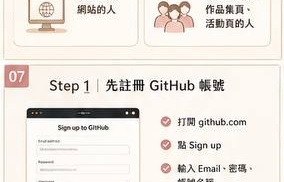
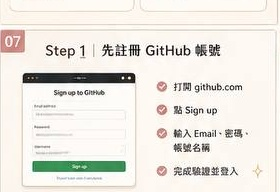
Recut 21 slide images with corrected boundaries

diff --git a/index.html b/index.html
@@ -558,191 +558,260 @@
     <div class="section-title-wrap" id="slides-start">
       <div>
         <div class="section-kicker">Visual Slides</div>
-        <h2>圖文講義視覺版</h2>
+        <h2>圖文講義對照版</h2>
       </div>
-      <p class="section-desc">以下為拆切後的 21 張圖文，可直接在網頁中逐張閱讀與檢視。</p>
+      <p class="section-desc">保留 21 張完整圖卡原比例，不放大全版、不裁切，搭配右側講義筆記，維持清晰閱讀感。</p>
     </div>
 
-    <section class="slide alt" id="quick-nav" style="min-height:auto; padding:30px 34px; margin-top:24px;">
-      <div class="meta">Quick Navigation</div>
-      <h1 class="headline" style="font-size:2rem;">快速導覽</h1>
-      <div class="grid-4">
-        <a class="btn ghost" href="#visual-slide-1">第 1 張</a>
-        <a class="btn ghost" href="#visual-slide-7">第 7 張</a>
-        <a class="btn ghost" href="#visual-slide-12">第 12 張</a>
-        <a class="btn ghost" href="#visual-slide-21">第 21 張</a>
+    <section class="slide" id="visual-slide-1" style="min-height:auto;">
+      <div class="two-col" style="align-items:start; grid-template-columns: minmax(0, 0.95fr) minmax(320px, 0.75fr);">
+        <div class="card" style="padding:18px; background:rgba(255,255,255,.72); display:flex; justify-content:center; align-items:flex-start;">
+        <img src="assets/slides/slide-01.jpg" alt="第 1 張圖文講義" style="max-width:100%; width:auto; height:auto; object-fit:contain; border-radius:18px; box-shadow:0 14px 24px rgba(67,55,53,.08);" />
+      </div><div>
+        <div class="meta">Visual Slide 01</div>
+        <h1 class="headline" style="font-size:2rem;">第 1 張重點筆記</h1>
+        <div class="quote-box"><strong>講義筆記：</strong>主題是從零開始建立公開網頁，用 GitHub Pages 做出自己的第一個公開網址。</div>
       </div>
-      <div class="hero-actions" style="margin-top:14px;">
-        <a class="btn primary" href="assets/slides/slide-01.jpg" target="_blank" rel="noreferrer">打開第 1 張原圖</a>
-        <a class="btn ghost" href="https://cherie0080.github.io/codexxgithubxwebsite/" target="_blank" rel="noreferrer">重新整理公開頁</a>
       </div>
     </section>
 
-    <section class="slide" id="visual-slide-1">
-      <div class="meta">Visual Slide 01</div>
-      <h1 class="headline">第 1 張圖文講義</h1>
-      <div class="card" style="padding:16px; background:rgba(255,255,255,.72);">
-        <img src="assets/slides/slide-01.jpg" alt="第 1 張圖文講義" style="width:100%; display:block; border-radius:22px; box-shadow:0 18px 30px rgba(67,55,53,.08);" />
+    <section class="slide" id="visual-slide-2" style="min-height:auto;">
+      <div class="two-col" style="align-items:start; grid-template-columns: minmax(0, 0.95fr) minmax(320px, 0.75fr);">
+        <div>
+        <div class="meta">Visual Slide 02</div>
+        <h1 class="headline" style="font-size:2rem;">第 2 張重點筆記</h1>
+        <div class="quote-box"><strong>講義筆記：</strong>這堂課會學到 GitHub、Repository、HTML 首頁與公開網址四個核心。</div>
+      </div><div class="card" style="padding:18px; background:rgba(255,255,255,.72); display:flex; justify-content:center; align-items:flex-start;">
+        <img src="assets/slides/slide-02.jpg" alt="第 2 張圖文講義" style="max-width:100%; width:auto; height:auto; object-fit:contain; border-radius:18px; box-shadow:0 14px 24px rgba(67,55,53,.08);" />
+      </div>
       </div>
     </section>
 
-    <section class="slide" id="visual-slide-2">
-      <div class="meta">Visual Slide 02</div>
-      <h1 class="headline">第 2 張圖文講義</h1>
-      <div class="card" style="padding:16px; background:rgba(255,255,255,.72);">
-        <img src="assets/slides/slide-02.jpg" alt="第 2 張圖文講義" style="width:100%; display:block; border-radius:22px; box-shadow:0 18px 30px rgba(67,55,53,.08);" />
+    <section class="slide" id="visual-slide-3" style="min-height:auto;">
+      <div class="two-col" style="align-items:start; grid-template-columns: minmax(0, 0.95fr) minmax(320px, 0.75fr);">
+        <div class="card" style="padding:18px; background:rgba(255,255,255,.72); display:flex; justify-content:center; align-items:flex-start;">
+        <img src="assets/slides/slide-03.jpg" alt="第 3 張圖文講義" style="max-width:100%; width:auto; height:auto; object-fit:contain; border-radius:18px; box-shadow:0 14px 24px rgba(67,55,53,.08);" />
+      </div><div>
+        <div class="meta">Visual Slide 03</div>
+        <h1 class="headline" style="font-size:2rem;">第 3 張重點筆記</h1>
+        <div class="quote-box"><strong>講義筆記：</strong>完成後會擁有 GitHub 帳號、Public repo、index.html 與公開網址。</div>
+      </div>
       </div>
     </section>
 
-    <section class="slide" id="visual-slide-3">
-      <div class="meta">Visual Slide 03</div>
-      <h1 class="headline">第 3 張圖文講義</h1>
-      <div class="card" style="padding:16px; background:rgba(255,255,255,.72);">
-        <img src="assets/slides/slide-03.jpg" alt="第 3 張圖文講義" style="width:100%; display:block; border-radius:22px; box-shadow:0 18px 30px rgba(67,55,53,.08);" />
+    <section class="slide" id="visual-slide-4" style="min-height:auto;">
+      <div class="two-col" style="align-items:start; grid-template-columns: minmax(0, 0.95fr) minmax(320px, 0.75fr);">
+        <div>
+        <div class="meta">Visual Slide 04</div>
+        <h1 class="headline" style="font-size:2rem;">第 4 張重點筆記</h1>
+        <div class="quote-box"><strong>講義筆記：</strong>適合完全沒碰過 GitHub、不會寫程式但想做公開網站的人。</div>
+      </div><div class="card" style="padding:18px; background:rgba(255,255,255,.72); display:flex; justify-content:center; align-items:flex-start;">
+        <img src="assets/slides/slide-04.jpg" alt="第 4 張圖文講義" style="max-width:100%; width:auto; height:auto; object-fit:contain; border-radius:18px; box-shadow:0 14px 24px rgba(67,55,53,.08);" />
+      </div>
       </div>
     </section>
 
-    <section class="slide" id="visual-slide-4">
-      <div class="meta">Visual Slide 04</div>
-      <h1 class="headline">第 4 張圖文講義</h1>
-      <div class="card" style="padding:16px; background:rgba(255,255,255,.72);">
-        <img src="assets/slides/slide-04.jpg" alt="第 4 張圖文講義" style="width:100%; display:block; border-radius:22px; box-shadow:0 18px 30px rgba(67,55,53,.08);" />
+    <section class="slide" id="visual-slide-5" style="min-height:auto;">
+      <div class="two-col" style="align-items:start; grid-template-columns: minmax(0, 0.95fr) minmax(320px, 0.75fr);">
+        <div class="card" style="padding:18px; background:rgba(255,255,255,.72); display:flex; justify-content:center; align-items:flex-start;">
+        <img src="assets/slides/slide-05.jpg" alt="第 5 張圖文講義" style="max-width:100%; width:auto; height:auto; object-fit:contain; border-radius:18px; box-shadow:0 14px 24px rgba(67,55,53,.08);" />
+      </div><div>
+        <div class="meta">Visual Slide 05</div>
+        <h1 class="headline" style="font-size:2rem;">第 5 張重點筆記</h1>
+        <div class="quote-box"><strong>講義筆記：</strong>先認識 GitHub、Repository、GitHub Pages 三個核心概念。</div>
+      </div>
       </div>
     </section>
 
-    <section class="slide" id="visual-slide-5">
-      <div class="meta">Visual Slide 05</div>
-      <h1 class="headline">第 5 張圖文講義</h1>
-      <div class="card" style="padding:16px; background:rgba(255,255,255,.72);">
-        <img src="assets/slides/slide-05.jpg" alt="第 5 張圖文講義" style="width:100%; display:block; border-radius:22px; box-shadow:0 18px 30px rgba(67,55,53,.08);" />
+    <section class="slide" id="visual-slide-6" style="min-height:auto;">
+      <div class="two-col" style="align-items:start; grid-template-columns: minmax(0, 0.95fr) minmax(320px, 0.75fr);">
+        <div>
+        <div class="meta">Visual Slide 06</div>
+        <h1 class="headline" style="font-size:2rem;">第 6 張重點筆記</h1>
+        <div class="quote-box"><strong>講義筆記：</strong>整體流程只有五步，依序完成就能上線。</div>
+      </div><div class="card" style="padding:18px; background:rgba(255,255,255,.72); display:flex; justify-content:center; align-items:flex-start;">
+        <img src="assets/slides/slide-06.jpg" alt="第 6 張圖文講義" style="max-width:100%; width:auto; height:auto; object-fit:contain; border-radius:18px; box-shadow:0 14px 24px rgba(67,55,53,.08);" />
+      </div>
       </div>
     </section>
 
-    <section class="slide" id="visual-slide-6">
-      <div class="meta">Visual Slide 06</div>
-      <h1 class="headline">第 6 張圖文講義</h1>
-      <div class="card" style="padding:16px; background:rgba(255,255,255,.72);">
-        <img src="assets/slides/slide-06.jpg" alt="第 6 張圖文講義" style="width:100%; display:block; border-radius:22px; box-shadow:0 18px 30px rgba(67,55,53,.08);" />
+    <section class="slide" id="visual-slide-7" style="min-height:auto;">
+      <div class="two-col" style="align-items:start; grid-template-columns: minmax(0, 0.95fr) minmax(320px, 0.75fr);">
+        <div class="card" style="padding:18px; background:rgba(255,255,255,.72); display:flex; justify-content:center; align-items:flex-start;">
+        <img src="assets/slides/slide-07.jpg" alt="第 7 張圖文講義" style="max-width:100%; width:auto; height:auto; object-fit:contain; border-radius:18px; box-shadow:0 14px 24px rgba(67,55,53,.08);" />
+      </div><div>
+        <div class="meta">Visual Slide 07</div>
+        <h1 class="headline" style="font-size:2rem;">第 7 張重點筆記</h1>
+        <div class="quote-box"><strong>講義筆記：</strong>Step 1 是先註冊 GitHub 帳號，建立網站上線的基礎身份。</div>
+      </div>
       </div>
     </section>
 
-    <section class="slide" id="visual-slide-7">
-      <div class="meta">Visual Slide 07</div>
-      <h1 class="headline">第 7 張圖文講義</h1>
-      <div class="card" style="padding:16px; background:rgba(255,255,255,.72);">
-        <img src="assets/slides/slide-07.jpg" alt="第 7 張圖文講義" style="width:100%; display:block; border-radius:22px; box-shadow:0 18px 30px rgba(67,55,53,.08);" />
+    <section class="slide" id="visual-slide-8" style="min-height:auto;">
+      <div class="two-col" style="align-items:start; grid-template-columns: minmax(0, 0.95fr) minmax(320px, 0.75fr);">
+        <div>
+        <div class="meta">Visual Slide 08</div>
+        <h1 class="headline" style="font-size:2rem;">第 8 張重點筆記</h1>
+        <div class="quote-box"><strong>講義筆記：</strong>Step 2 建立一個公開的 Repository，作為網站專案資料夾。</div>
+      </div><div class="card" style="padding:18px; background:rgba(255,255,255,.72); display:flex; justify-content:center; align-items:flex-start;">
+        <img src="assets/slides/slide-08.jpg" alt="第 8 張圖文講義" style="max-width:100%; width:auto; height:auto; object-fit:contain; border-radius:18px; box-shadow:0 14px 24px rgba(67,55,53,.08);" />
+      </div>
       </div>
     </section>
 
-    <section class="slide" id="visual-slide-8">
-      <div class="meta">Visual Slide 08</div>
-      <h1 class="headline">第 8 張圖文講義</h1>
-      <div class="card" style="padding:16px; background:rgba(255,255,255,.72);">
-        <img src="assets/slides/slide-08.jpg" alt="第 8 張圖文講義" style="width:100%; display:block; border-radius:22px; box-shadow:0 18px 30px rgba(67,55,53,.08);" />
+    <section class="slide" id="visual-slide-9" style="min-height:auto;">
+      <div class="two-col" style="align-items:start; grid-template-columns: minmax(0, 0.95fr) minmax(320px, 0.75fr);">
+        <div class="card" style="padding:18px; background:rgba(255,255,255,.72); display:flex; justify-content:center; align-items:flex-start;">
+        <img src="assets/slides/slide-09.jpg" alt="第 9 張圖文講義" style="max-width:100%; width:auto; height:auto; object-fit:contain; border-radius:18px; box-shadow:0 14px 24px rgba(67,55,53,.08);" />
+      </div><div>
+        <div class="meta">Visual Slide 09</div>
+        <h1 class="headline" style="font-size:2rem;">第 9 張重點筆記</h1>
+        <div class="quote-box"><strong>講義筆記：</strong>Step 3 建立 index.html，這是網站首頁檔案。</div>
+      </div>
       </div>
     </section>
 
-    <section class="slide" id="visual-slide-9">
-      <div class="meta">Visual Slide 09</div>
-      <h1 class="headline">第 9 張圖文講義</h1>
-      <div class="card" style="padding:16px; background:rgba(255,255,255,.72);">
-        <img src="assets/slides/slide-09.jpg" alt="第 9 張圖文講義" style="width:100%; display:block; border-radius:22px; box-shadow:0 18px 30px rgba(67,55,53,.08);" />
+    <section class="slide" id="visual-slide-10" style="min-height:auto;">
+      <div class="two-col" style="align-items:start; grid-template-columns: minmax(0, 0.95fr) minmax(320px, 0.75fr);">
+        <div>
+        <div class="meta">Visual Slide 10</div>
+        <h1 class="headline" style="font-size:2rem;">第 10 張重點筆記</h1>
+        <div class="quote-box"><strong>講義筆記：</strong>這一頁示範最基本的 HTML 首頁結構。</div>
+      </div><div class="card" style="padding:18px; background:rgba(255,255,255,.72); display:flex; justify-content:center; align-items:flex-start;">
+        <img src="assets/slides/slide-10.jpg" alt="第 10 張圖文講義" style="max-width:100%; width:auto; height:auto; object-fit:contain; border-radius:18px; box-shadow:0 14px 24px rgba(67,55,53,.08);" />
+      </div>
       </div>
     </section>
 
-    <section class="slide" id="visual-slide-10">
-      <div class="meta">Visual Slide 10</div>
-      <h1 class="headline">第 10 張圖文講義</h1>
-      <div class="card" style="padding:16px; background:rgba(255,255,255,.72);">
-        <img src="assets/slides/slide-10.jpg" alt="第 10 張圖文講義" style="width:100%; display:block; border-radius:22px; box-shadow:0 18px 30px rgba(67,55,53,.08);" />
+    <section class="slide" id="visual-slide-11" style="min-height:auto;">
+      <div class="two-col" style="align-items:start; grid-template-columns: minmax(0, 0.95fr) minmax(320px, 0.75fr);">
+        <div class="card" style="padding:18px; background:rgba(255,255,255,.72); display:flex; justify-content:center; align-items:flex-start;">
+        <img src="assets/slides/slide-11.jpg" alt="第 11 張圖文講義" style="max-width:100%; width:auto; height:auto; object-fit:contain; border-radius:18px; box-shadow:0 14px 24px rgba(67,55,53,.08);" />
+      </div><div>
+        <div class="meta">Visual Slide 11</div>
+        <h1 class="headline" style="font-size:2rem;">第 11 張重點筆記</h1>
+        <div class="quote-box"><strong>講義筆記：</strong>Step 4 把首頁上傳到 GitHub，完成檔案進站。</div>
+      </div>
       </div>
     </section>
 
-    <section class="slide" id="visual-slide-11">
-      <div class="meta">Visual Slide 11</div>
-      <h1 class="headline">第 11 張圖文講義</h1>
-      <div class="card" style="padding:16px; background:rgba(255,255,255,.72);">
-        <img src="assets/slides/slide-11.jpg" alt="第 11 張圖文講義" style="width:100%; display:block; border-radius:22px; box-shadow:0 18px 30px rgba(67,55,53,.08);" />
+    <section class="slide" id="visual-slide-12" style="min-height:auto;">
+      <div class="two-col" style="align-items:start; grid-template-columns: minmax(0, 0.95fr) minmax(320px, 0.75fr);">
+        <div>
+        <div class="meta">Visual Slide 12</div>
+        <h1 class="headline" style="font-size:2rem;">第 12 張重點筆記</h1>
+        <div class="quote-box"><strong>講義筆記：</strong>Step 5 開啟 GitHub Pages，把 repo 變成公開網站。</div>
+      </div><div class="card" style="padding:18px; background:rgba(255,255,255,.72); display:flex; justify-content:center; align-items:flex-start;">
+        <img src="assets/slides/slide-12.jpg" alt="第 12 張圖文講義" style="max-width:100%; width:auto; height:auto; object-fit:contain; border-radius:18px; box-shadow:0 14px 24px rgba(67,55,53,.08);" />
+      </div>
       </div>
     </section>
 
-    <section class="slide" id="visual-slide-12">
-      <div class="meta">Visual Slide 12</div>
-      <h1 class="headline">第 12 張圖文講義</h1>
-      <div class="card" style="padding:16px; background:rgba(255,255,255,.72);">
-        <img src="assets/slides/slide-12.jpg" alt="第 12 張圖文講義" style="width:100%; display:block; border-radius:22px; box-shadow:0 18px 30px rgba(67,55,53,.08);" />
+    <section class="slide" id="visual-slide-13" style="min-height:auto;">
+      <div class="two-col" style="align-items:start; grid-template-columns: minmax(0, 0.95fr) minmax(320px, 0.75fr);">
+        <div class="card" style="padding:18px; background:rgba(255,255,255,.72); display:flex; justify-content:center; align-items:flex-start;">
+        <img src="assets/slides/slide-13.jpg" alt="第 13 張圖文講義" style="max-width:100%; width:auto; height:auto; object-fit:contain; border-radius:18px; box-shadow:0 14px 24px rgba(67,55,53,.08);" />
+      </div><div>
+        <div class="meta">Visual Slide 13</div>
+        <h1 class="headline" style="font-size:2rem;">第 13 張重點筆記</h1>
+        <div class="quote-box"><strong>講義筆記：</strong>公開網址格式通常是 帳號.github.io/repo名稱。</div>
+      </div>
       </div>
     </section>
 
-    <section class="slide" id="visual-slide-13">
-      <div class="meta">Visual Slide 13</div>
-      <h1 class="headline">第 13 張圖文講義</h1>
-      <div class="card" style="padding:16px; background:rgba(255,255,255,.72);">
-        <img src="assets/slides/slide-13.jpg" alt="第 13 張圖文講義" style="width:100%; display:block; border-radius:22px; box-shadow:0 18px 30px rgba(67,55,53,.08);" />
+    <section class="slide" id="visual-slide-14" style="min-height:auto;">
+      <div class="two-col" style="align-items:start; grid-template-columns: minmax(0, 0.95fr) minmax(320px, 0.75fr);">
+        <div>
+        <div class="meta">Visual Slide 14</div>
+        <h1 class="headline" style="font-size:2rem;">第 14 張重點筆記</h1>
+        <div class="quote-box"><strong>講義筆記：</strong>如果成功，就會看到自己的首頁、公開網址與正式上線頁面。</div>
+      </div><div class="card" style="padding:18px; background:rgba(255,255,255,.72); display:flex; justify-content:center; align-items:flex-start;">
+        <img src="assets/slides/slide-14.jpg" alt="第 14 張圖文講義" style="max-width:100%; width:auto; height:auto; object-fit:contain; border-radius:18px; box-shadow:0 14px 24px rgba(67,55,53,.08);" />
+      </div>
       </div>
     </section>
 
-    <section class="slide" id="visual-slide-14">
-      <div class="meta">Visual Slide 14</div>
-      <h1 class="headline">第 14 張圖文講義</h1>
-      <div class="card" style="padding:16px; background:rgba(255,255,255,.72);">
-        <img src="assets/slides/slide-14.jpg" alt="第 14 張圖文講義" style="width:100%; display:block; border-radius:22px; box-shadow:0 18px 30px rgba(67,55,53,.08);" />
+    <section class="slide" id="visual-slide-15" style="min-height:auto;">
+      <div class="two-col" style="align-items:start; grid-template-columns: minmax(0, 0.95fr) minmax(320px, 0.75fr);">
+        <div class="card" style="padding:18px; background:rgba(255,255,255,.72); display:flex; justify-content:center; align-items:flex-start;">
+        <img src="assets/slides/slide-15.jpg" alt="第 15 張圖文講義" style="max-width:100%; width:auto; height:auto; object-fit:contain; border-radius:18px; box-shadow:0 14px 24px rgba(67,55,53,.08);" />
+      </div><div>
+        <div class="meta">Visual Slide 15</div>
+        <h1 class="headline" style="font-size:2rem;">第 15 張重點筆記</h1>
+        <div class="quote-box"><strong>講義筆記：</strong>這頁整理常見錯誤與排查方式。</div>
+      </div>
       </div>
     </section>
 
-    <section class="slide" id="visual-slide-15">
-      <div class="meta">Visual Slide 15</div>
-      <h1 class="headline">第 15 張圖文講義</h1>
-      <div class="card" style="padding:16px; background:rgba(255,255,255,.72);">
-        <img src="assets/slides/slide-15.jpg" alt="第 15 張圖文講義" style="width:100%; display:block; border-radius:22px; box-shadow:0 18px 30px rgba(67,55,53,.08);" />
+    <section class="slide" id="visual-slide-16" style="min-height:auto;">
+      <div class="two-col" style="align-items:start; grid-template-columns: minmax(0, 0.95fr) minmax(320px, 0.75fr);">
+        <div>
+        <div class="meta">Visual Slide 16</div>
+        <h1 class="headline" style="font-size:2rem;">第 16 張重點筆記</h1>
+        <div class="quote-box"><strong>講義筆記：</strong>網站建立後，只要改 index.html 再重新發布即可更新。</div>
+      </div><div class="card" style="padding:18px; background:rgba(255,255,255,.72); display:flex; justify-content:center; align-items:flex-start;">
+        <img src="assets/slides/slide-16.jpg" alt="第 16 張圖文講義" style="max-width:100%; width:auto; height:auto; object-fit:contain; border-radius:18px; box-shadow:0 14px 24px rgba(67,55,53,.08);" />
+      </div>
       </div>
     </section>
 
-    <section class="slide" id="visual-slide-16">
-      <div class="meta">Visual Slide 16</div>
-      <h1 class="headline">第 16 張圖文講義</h1>
-      <div class="card" style="padding:16px; background:rgba(255,255,255,.72);">
-        <img src="assets/slides/slide-16.jpg" alt="第 16 張圖文講義" style="width:100%; display:block; border-radius:22px; box-shadow:0 18px 30px rgba(67,55,53,.08);" />
+    <section class="slide" id="visual-slide-17" style="min-height:auto;">
+      <div class="two-col" style="align-items:start; grid-template-columns: minmax(0, 0.95fr) minmax(320px, 0.75fr);">
+        <div class="card" style="padding:18px; background:rgba(255,255,255,.72); display:flex; justify-content:center; align-items:flex-start;">
+        <img src="assets/slides/slide-17.jpg" alt="第 17 張圖文講義" style="max-width:100%; width:auto; height:auto; object-fit:contain; border-radius:18px; box-shadow:0 14px 24px rgba(67,55,53,.08);" />
+      </div><div>
+        <div class="meta">Visual Slide 17</div>
+        <h1 class="headline" style="font-size:2rem;">第 17 張重點筆記</h1>
+        <div class="quote-box"><strong>講義筆記：</strong>這套方法可以延伸做品牌頁、作品集頁、活動頁、課程頁與晨報頁。</div>
+      </div>
       </div>
     </section>
 
-    <section class="slide" id="visual-slide-17">
-      <div class="meta">Visual Slide 17</div>
-      <h1 class="headline">第 17 張圖文講義</h1>
-      <div class="card" style="padding:16px; background:rgba(255,255,255,.72);">
-        <img src="assets/slides/slide-17.jpg" alt="第 17 張圖文講義" style="width:100%; display:block; border-radius:22px; box-shadow:0 18px 30px rgba(67,55,53,.08);" />
+    <section class="slide" id="visual-slide-18" style="min-height:auto;">
+      <div class="two-col" style="align-items:start; grid-template-columns: minmax(0, 0.95fr) minmax(320px, 0.75fr);">
+        <div>
+        <div class="meta">Visual Slide 18</div>
+        <h1 class="headline" style="font-size:2rem;">第 18 張重點筆記</h1>
+        <div class="quote-box"><strong>講義筆記：</strong>今天的實作任務是完成帳號、repo、首頁、Pages 與公開網址。</div>
+      </div><div class="card" style="padding:18px; background:rgba(255,255,255,.72); display:flex; justify-content:center; align-items:flex-start;">
+        <img src="assets/slides/slide-18.jpg" alt="第 18 張圖文講義" style="max-width:100%; width:auto; height:auto; object-fit:contain; border-radius:18px; box-shadow:0 14px 24px rgba(67,55,53,.08);" />
+      </div>
       </div>
     </section>
 
-    <section class="slide" id="visual-slide-18">
-      <div class="meta">Visual Slide 18</div>
-      <h1 class="headline">第 18 張圖文講義</h1>
-      <div class="card" style="padding:16px; background:rgba(255,255,255,.72);">
-        <img src="assets/slides/slide-18.jpg" alt="第 18 張圖文講義" style="width:100%; display:block; border-radius:22px; box-shadow:0 18px 30px rgba(67,55,53,.08);" />
+    <section class="slide" id="visual-slide-19" style="min-height:auto;">
+      <div class="two-col" style="align-items:start; grid-template-columns: minmax(0, 0.95fr) minmax(320px, 0.75fr);">
+        <div class="card" style="padding:18px; background:rgba(255,255,255,.72); display:flex; justify-content:center; align-items:flex-start;">
+        <img src="assets/slides/slide-19.jpg" alt="第 19 張圖文講義" style="max-width:100%; width:auto; height:auto; object-fit:contain; border-radius:18px; box-shadow:0 14px 24px rgba(67,55,53,.08);" />
+      </div><div>
+        <div class="meta">Visual Slide 19</div>
+        <h1 class="headline" style="font-size:2rem;">第 19 張重點筆記</h1>
+        <div class="quote-box"><strong>講義筆記：</strong>課後作業是補上名字、自我介紹、圖片與超連結。</div>
+      </div>
       </div>
     </section>
 
-    <section class="slide" id="visual-slide-19">
-      <div class="meta">Visual Slide 19</div>
-      <h1 class="headline">第 19 張圖文講義</h1>
-      <div class="card" style="padding:16px; background:rgba(255,255,255,.72);">
-        <img src="assets/slides/slide-19.jpg" alt="第 19 張圖文講義" style="width:100%; display:block; border-radius:22px; box-shadow:0 18px 30px rgba(67,55,53,.08);" />
+    <section class="slide" id="visual-slide-20" style="min-height:auto;">
+      <div class="two-col" style="align-items:start; grid-template-columns: minmax(0, 0.95fr) minmax(320px, 0.75fr);">
+        <div>
+        <div class="meta">Visual Slide 20</div>
+        <h1 class="headline" style="font-size:2rem;">第 20 張重點筆記</h1>
+        <div class="quote-box"><strong>講義筆記：</strong>一句話總結，只要做出 index.html 並開啟 GitHub Pages，就有公開網站。</div>
+      </div><div class="card" style="padding:18px; background:rgba(255,255,255,.72); display:flex; justify-content:center; align-items:flex-start;">
+        <img src="assets/slides/slide-20.jpg" alt="第 20 張圖文講義" style="max-width:100%; width:auto; height:auto; object-fit:contain; border-radius:18px; box-shadow:0 14px 24px rgba(67,55,53,.08);" />
+      </div>
       </div>
     </section>
 
-    <section class="slide" id="visual-slide-20">
-      <div class="meta">Visual Slide 20</div>
-      <h1 class="headline">第 20 張圖文講義</h1>
-      <div class="card" style="padding:16px; background:rgba(255,255,255,.72);">
-        <img src="assets/slides/slide-20.jpg" alt="第 20 張圖文講義" style="width:100%; display:block; border-radius:22px; box-shadow:0 18px 30px rgba(67,55,53,.08);" />
+    <section class="slide" id="visual-slide-21" style="min-height:auto;">
+      <div class="two-col" style="align-items:start; grid-template-columns: minmax(0, 0.95fr) minmax(320px, 0.75fr);">
+        <div class="card" style="padding:18px; background:rgba(255,255,255,.72); display:flex; justify-content:center; align-items:flex-start;">
+        <img src="assets/slides/slide-21.jpg" alt="第 21 張圖文講義" style="max-width:100%; width:auto; height:auto; object-fit:contain; border-radius:18px; box-shadow:0 14px 24px rgba(67,55,53,.08);" />
+      </div><div>
+        <div class="meta">Visual Slide 21</div>
+        <h1 class="headline" style="font-size:2rem;">第 21 張重點筆記</h1>
+        <div class="quote-box"><strong>講義筆記：</strong>完成第一個公開網頁後，可以再延伸成更多品牌與展示型內容。</div>
       </div>
-    </section>
-
-    <section class="slide" id="visual-slide-21">
-      <div class="meta">Visual Slide 21</div>
-      <h1 class="headline">第 21 張圖文講義</h1>
-      <div class="card" style="padding:16px; background:rgba(255,255,255,.72);">
-        <img src="assets/slides/slide-21.jpg" alt="第 21 張圖文講義" style="width:100%; display:block; border-radius:22px; box-shadow:0 18px 30px rgba(67,55,53,.08);" />
       </div>
     </section>
 
